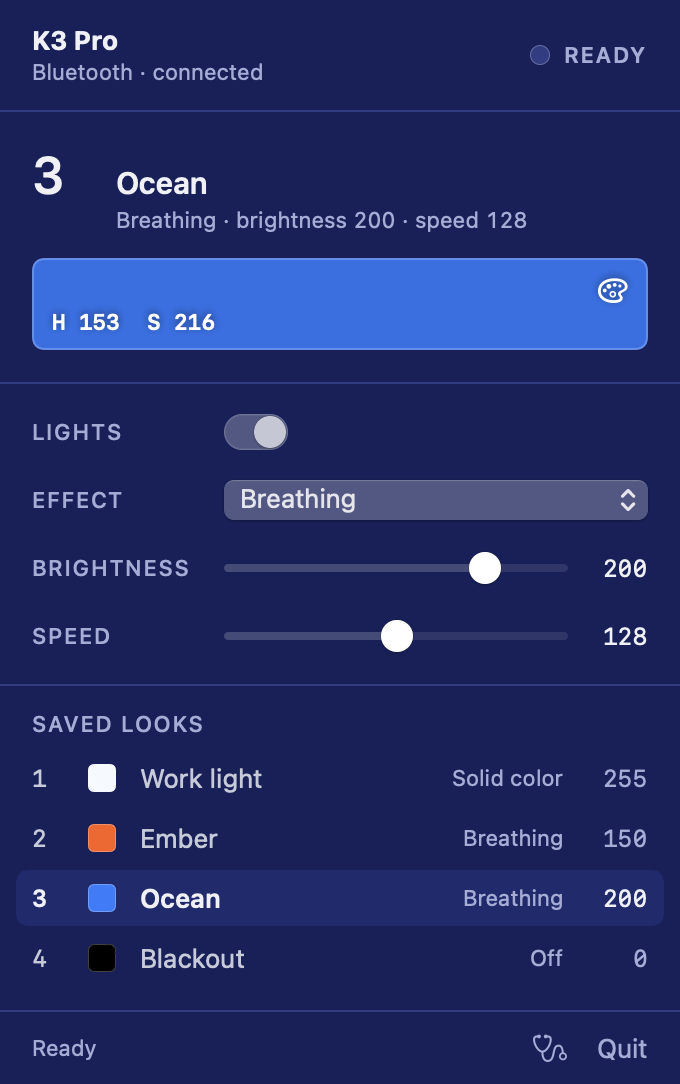
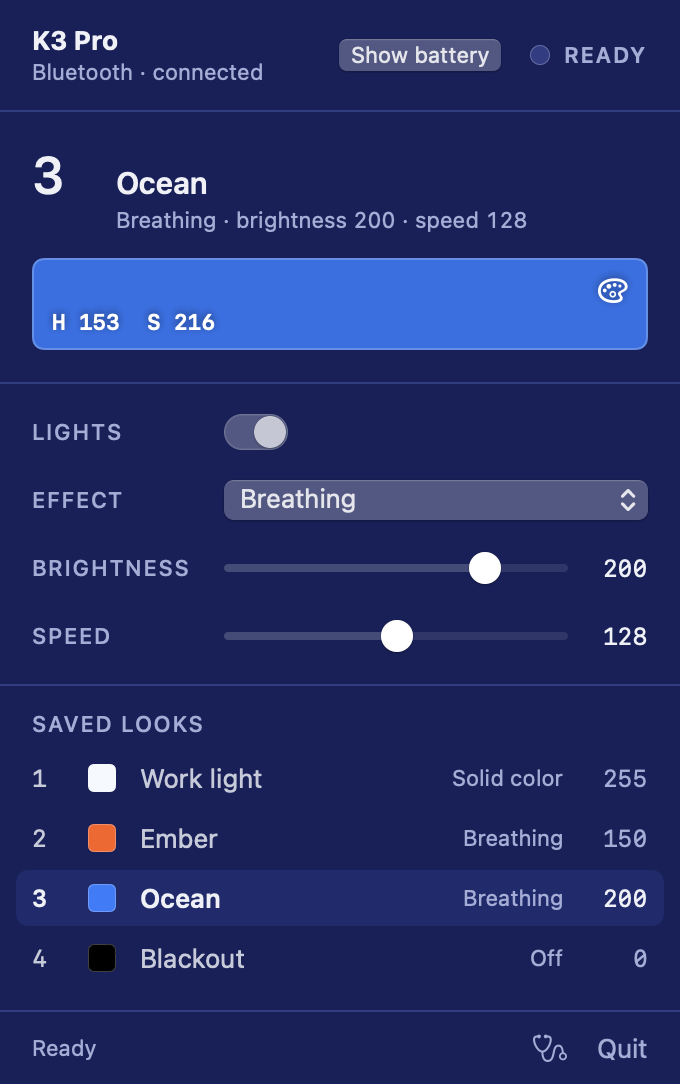
Add Show battery: keyboard plays its battery bar on request
New firmware command 7 runs the same battery-level animation as Fn+B.
The app gets a Show battery button with a note telling you where to look.

Changed region(s): [[0.4941, 0.0304, 0.7412, 0.0913]]

diff --git a/app/Panel.swift b/app/Panel.swift
@@ -173,6 +173,8 @@ struct Panel: View {
     @ObservedObject var kb: Keyboard
     @ObservedObject var sheet: CueSheet
     @State private var showDiagnostics = false
+    @State var batteryNote = false
+    @State private var batteryToken = 0
     @State private var signalView = false
     @State private var bits = [false, false, false, false]
     var previewGo = false
@@ -226,6 +228,12 @@ struct Panel: View {
                 Text(deviceLine).font(.subheadline).foregroundStyle(Stage.dim)
             }
             Spacer()
+            Button("Show battery") { askBattery() }
+            .controlSize(.small)
+            .disabled(!ready)
+            .help("Show battery on keyboard (works on battery, not while charging)")
+            .accessibilityLabel("Show battery on keyboard")
+            .padding(.trailing, 6)
             CueLamp(call: call)
         }
         .padding(.horizontal, 16).padding(.vertical, 12)
@@ -259,6 +267,7 @@ struct Panel: View {
                 Spacer(minLength: 0)
             }
             gelChip
+            if batteryNote { batteryBlock }
             if kb.lastSend == .failed {
                 VStack(alignment: .leading, spacing: 8) {
                     Text("The keyboard didn't get that. Wake it with a keypress, then send again.")
@@ -277,6 +286,43 @@ struct Panel: View {
             }
         }
         .padding(16)
+    }
+
+    // Battery: the keyboard draws it, so tell the person where to look.
+    private func askBattery() {
+        kb.send(.battery)
+        batteryNote = true
+        batteryToken += 1
+        let token = batteryToken
+        DispatchQueue.main.asyncAfter(deadline: .now() + 20) {
+            if token == batteryToken { batteryNote = false }
+        }
+    }
+
+    private var batteryBlock: some View {
+        VStack(alignment: .leading, spacing: 6) {
+            HStack(alignment: .firstTextBaseline) {
+                Text(kb.sending ? "Sending to your keyboard…" : "Look at keys 1 to 0 now")
+                    .font(.callout.weight(.semibold))
+                Spacer()
+                Button("Done") { batteryNote = false }
+                    .buttonStyle(.borderless).controlSize(.small)
+            }
+            if kb.sending {
+                Text("Takes about 2 seconds.")
+                    .font(.subheadline).foregroundStyle(Stage.dim)
+            } else if kb.lastSend == .ok {
+                Text("They fill up from the left for about 3 seconds. Each lit key is about 10% charge, so 7 keys means about 70%.")
+                    .font(.subheadline).foregroundStyle(Stage.dim)
+                    .fixedSize(horizontal: false, vertical: true)
+                Text("Nothing lit up? Unplug the USB cable. The keyboard only shows battery when it isn't charging.")
+                    .font(.subheadline).foregroundStyle(Stage.attention)
+                    .fixedSize(horizontal: false, vertical: true)
+            }
+        }
+        .padding(12)
+        .frame(maxWidth: .infinity, alignment: .leading)
+        .background(RoundedRectangle(cornerRadius: 6).fill(Stage.raised))
     }
 
     private var metaLine: String {
@@ -564,13 +610,13 @@ enum Snapshot {
 
         func board(_ name: String, found: Bool = true, transport: String = "Bluetooth", access: Bool = true,
                    sending: Bool = false, last: Keyboard.SendState = .ok, edit: Bool = false,
-                   go: Bool = false, inFlight: Int = 0, message: String = "") {
+                   go: Bool = false, inFlight: Int = 0, message: String = "", battery: Bool = false) {
             let kb = Keyboard(live: false)
             kb.found = found; kb.transport = transport; kb.accessGranted = access
             kb.sending = sending; kb.lastSend = last; kb.inFlight = inFlight; kb.message = message
             let sheet = CueSheet(store: nil)
             if edit { sheet.live.level = 120; sheet.live.effect = 3 }
-            let view = Panel(kb: kb, sheet: sheet, previewGo: go)
+            let view = Panel(kb: kb, sheet: sheet, batteryNote: battery, previewGo: go)
                 .environment(\.controlActiveState, .key)
             let host = NSHostingView(rootView: view)
             host.frame.size = host.fittingSize
@@ -590,6 +636,8 @@ enum Snapshot {
         board("panel-not-found", found: false, transport: "")
         board("panel-usb", transport: "USB")
         board("panel-go", go: true)
+        board("panel-battery-sending", sending: true, inFlight: 1, battery: true)
+        board("panel-battery", battery: true)
         board("panel-sending-queue", sending: true, inFlight: 3)
         board("panel-failed", last: .failed, message: "Couldn't send (error 0xe00002c0). Is the keyboard connected?")
     }

diff --git a/app/KeyGlow.swift b/app/KeyGlow.swift
@@ -129,7 +129,7 @@ final class Keyboard: ObservableObject {
     // frame so the clock ends where it started. Each packet is sent twice; the firmware
     // ignores the repeat by its sequence number.
 
-    enum Cmd: UInt8 { case effect = 1, hsv = 2, speed = 3, power = 4, view = 5, ping = 6 }
+    enum Cmd: UInt8 { case effect = 1, hsv = 2, speed = 3, power = 4, view = 5, ping = 6, battery = 7 }
 
     @Published var sending = false
     @Published var inFlight = 0          // commands queued or being sent

diff --git a/firmware/keymap/keyglow.c b/firmware/keymap/keyglow.c
@@ -7,6 +7,9 @@
  */
 #include "keyglow.h"
 #include "transport.h"
+#include "battery.h"
+#include "bat_level_animation.h"
+#include "lpm.h"
 
 /* Effect ids shared with the Mac app. Order must match KeyGlow.swift. */
 static const uint8_t effects[] = {
@@ -59,7 +62,7 @@ static void reset_decoder(void) {
 
 static void run(uint8_t cmd, uint8_t a, uint8_t b, uint8_t c) {
     /* QMK ignores mode/colour changes and skips indicators while lights are off. */
-    if (cmd != KG_CMD_POWER && cmd != KG_CMD_SPEED && !rgb_matrix_is_enabled()) rgb_matrix_enable();
+    if (cmd != KG_CMD_POWER && cmd != KG_CMD_SPEED && cmd != KG_CMD_BATTERY && !rgb_matrix_is_enabled()) rgb_matrix_enable();
     switch (cmd) {
         case KG_CMD_EFFECT:
             if (a < sizeof(effects)) rgb_matrix_mode(effects[a]);
@@ -79,6 +82,11 @@ static void run(uint8_t cmd, uint8_t a, uint8_t b, uint8_t c) {
         case KG_CMD_PING:
             ping_on    = true;
             ping_start = timer_read32();
+            break;
+        case KG_CMD_BATTERY:
+            /* Same guard as Fn+B: the reading is only meaningful on battery, off the cable. */
+            if (get_transport() == TRANSPORT_BLUETOOTH && !usb_power_connected())
+                bat_level_animiation_start(battery_get_percentage());
             break;
     }
 }

diff --git a/firmware/keymap/keyglow.h b/firmware/keymap/keyglow.h
@@ -36,6 +36,7 @@ enum keyglow_cmd {
     KG_CMD_POWER  = 4, /* a = 0 off, 1 on */
     KG_CMD_VIEW   = 5, /* a = 0 hide, 1 show signal view */
     KG_CMD_PING   = 6, /* flashes the whole board white once */
+    KG_CMD_BATTERY = 7, /* plays Keychron's battery-level bar (same as Fn+B) */
 };
 
 void keyglow_frame(uint8_t leds);

diff --git a/README.md b/README.md
@@ -77,7 +77,7 @@ The firmware is a QMK keymap ([firmware/keymap](firmware/keymap)) plus a two-lin
 
 - Only the K3 Pro ANSI RGB is supported. Other Keychron Pro boards could likely be added the same way (PRs welcome).
 - The app can't read back the keyboard's state. It shows what it last sent.
-- It can't show the battery level: the keyboard doesn't report it over Bluetooth.
+- It can't show the battery percentage on your Mac: the keyboard doesn't report it over Bluetooth. Instead, **Show battery** makes the keyboard light its own battery bar (same as Fn+B). This only works on battery, not while the cable is plugged in.
 - Bluetooth only. Over the cable, use VIA.
 
 ## License

diff --git a/docs/PROTOCOL.md b/docs/PROTOCOL.md
@@ -23,5 +23,6 @@ The host sends HID **LED output reports** (report ID 1 over Bluetooth). Each rep
 | 4   | Power     | a = 0 off, 1 on                        |
 | 5   | Signal view | a = 0 hide, 1 show                   |
 | 6   | Ping      | flashes the whole board white          |
+| 7   | Battery   | plays the Fn+B battery bar (on battery only, not while charging) |
 
 Keychron's Bluetooth code drains its event queue in a loop, so QMK's normal `led_update_user` would only see the last frame of a burst. The patch calls `bluetooth_hid_indicator_user()` on every LED event instead.
